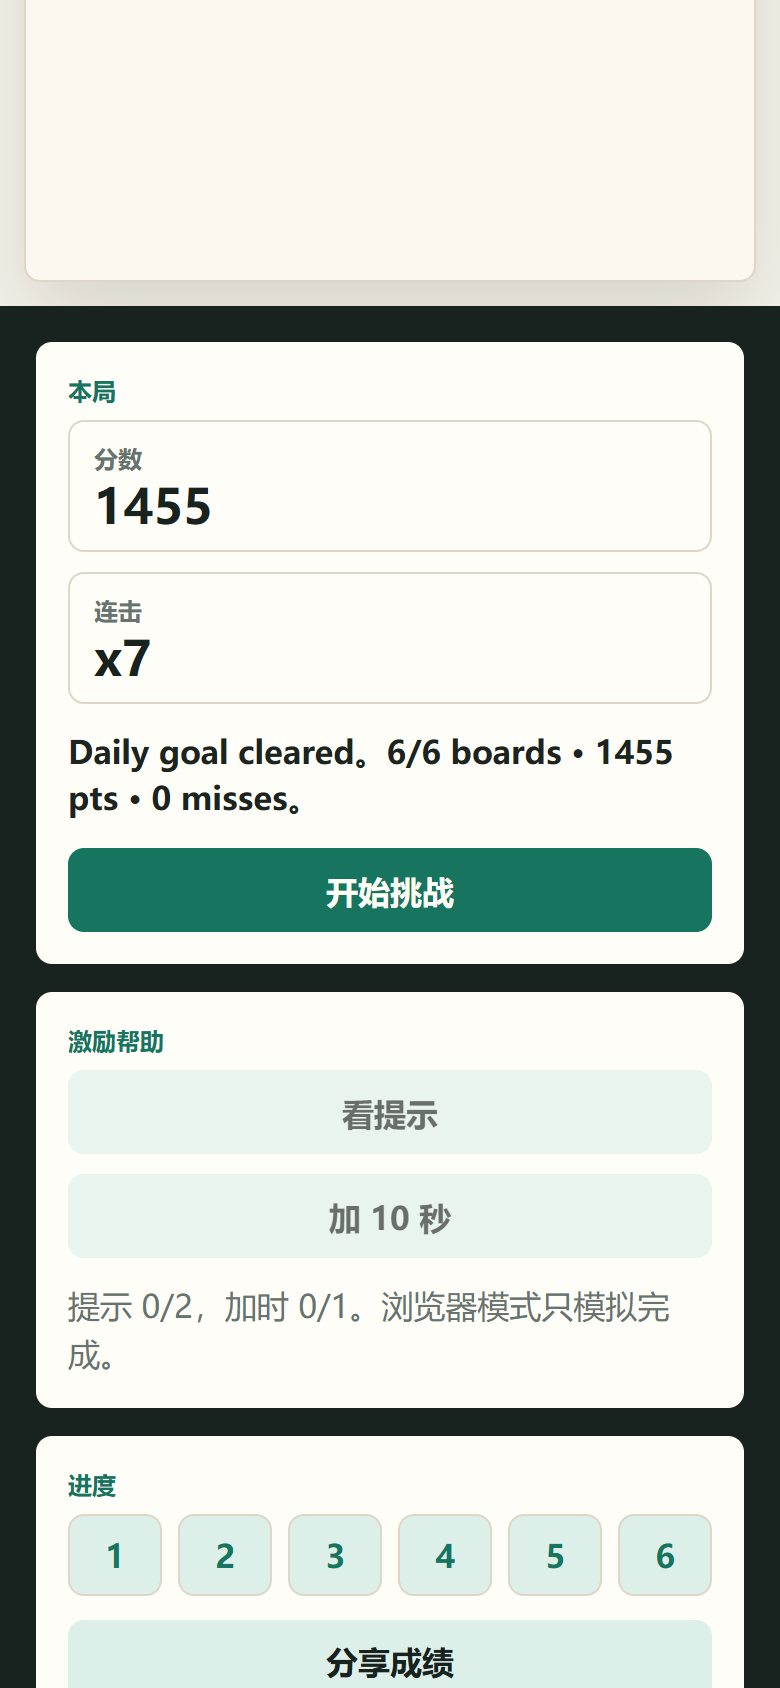
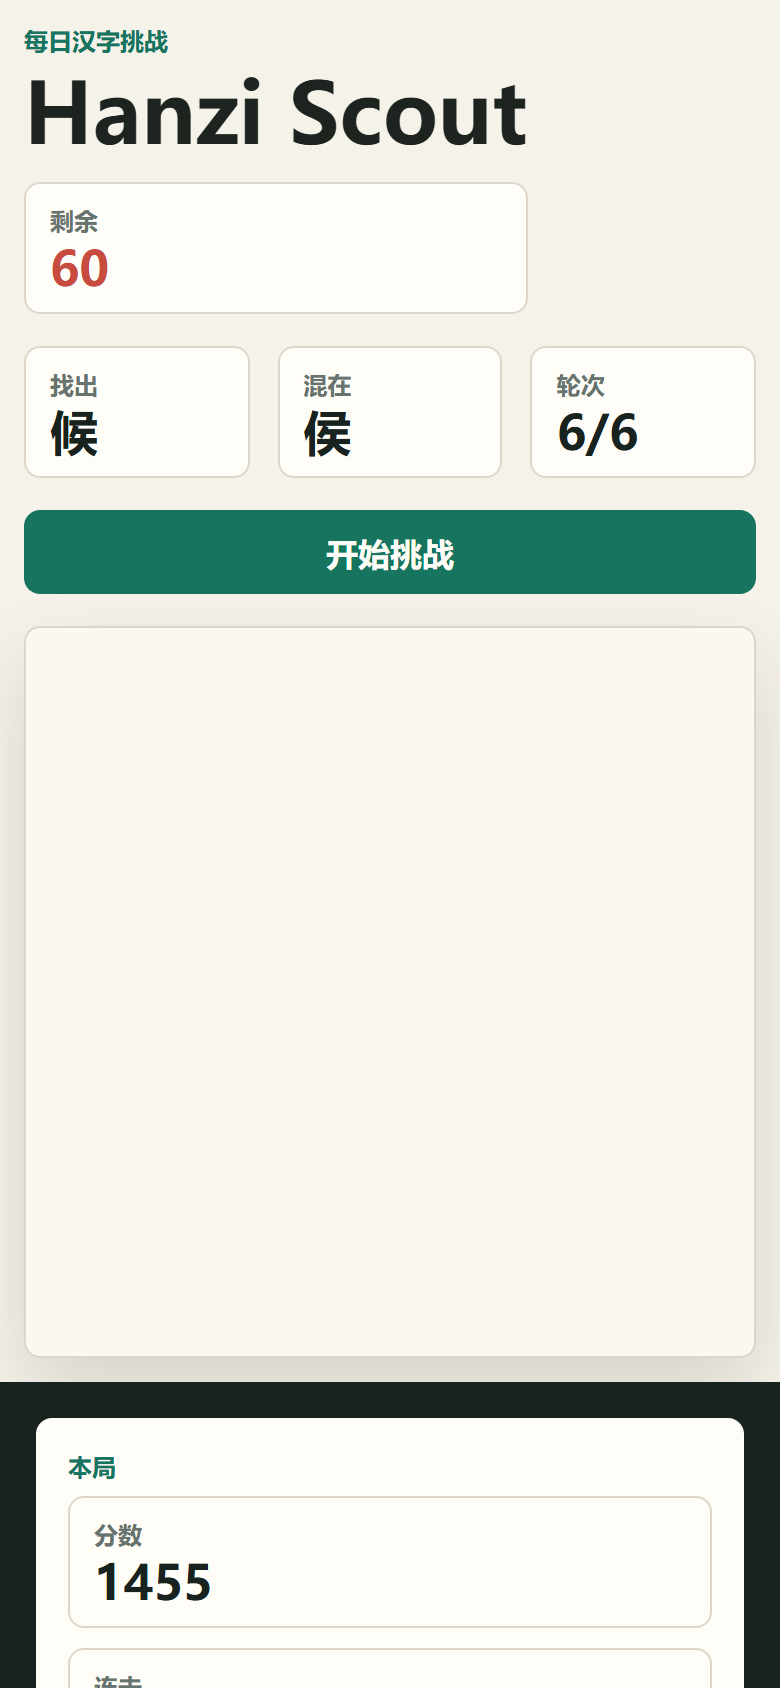
Add rewarded revive loop

diff --git a/src/main.js b/src/main.js
@@ -1,4 +1,4 @@
-import { canUseReward, createGameState, createProgress, createRunSummary, createShareText, finishRun, getCurrentRound, getRemainingSeconds, grantExtraTime, grantHint, startRun, tapCell } from "./game.js";
+import { canOfferRevive, canUseReward, createGameState, createProgress, createRunSummary, createShareText, finishRun, getCurrentRound, getRemainingSeconds, grantExtraTime, grantHint, grantRevive, pauseForRevive, startRun, tapCell } from "./game.js";
 import { getDayKey } from "./levels.js";
 import { createFriendLeaderboard, createScoreCard, loadProfile, recordRun, saveProfile } from "./profile.js";
 import { createPlatformAdapter } from "./wechat-adapter.js";
@@ -13,8 +13,10 @@ const refs = {
   combo: document.querySelector("#combo-value"),
   status: document.querySelector("#status-line"),
   start: document.querySelector("#start-button"),
+  quickStart: document.querySelector("#quick-start-button"),
   hint: document.querySelector("#hint-button"),
   timeButton: document.querySelector("#time-button"),
+  revive: document.querySelector("#revive-button"),
   assist: document.querySelector("#assist-line"),
   share: document.querySelector("#share-button"),
   shareText: document.querySelector("#share-text"),
@@ -38,24 +40,24 @@ refs.goal.textContent = formatGoal();
 refs.profile.textContent = formatProfile();
 render();
 
-refs.start.addEventListener("click", () => {
+refs.start.addEventListener("click", beginOrRecordRun);
+refs.quickStart.addEventListener("click", beginOrRecordRun);
+
+function beginOrRecordRun() {
+  if (state.awaitingRevive) {
+    finishRun(state, "timeout");
+    stopTimer();
+    refs.status.textContent = "本局已记录。";
+    render();
+    return;
+  }
   startRun(state);
   recordedRunKey = null;
   interstitialRunKey = null;
   refs.status.textContent = "在倒计时结束前找出不同的汉字。";
-  if (timer) window.clearInterval(timer);
-  timer = window.setInterval(() => {
-    if (getRemainingSeconds(state) <= 0 && !state.complete) {
-      finishRun(state, "timeout");
-    }
-    if (state.complete) {
-      window.clearInterval(timer);
-      timer = null;
-    }
-    render();
-  }, 250);
+  startTimer();
   render();
-});
+}
 
 refs.hint.addEventListener("click", async () => {
   if (!canUseReward(state, "hint")) {
@@ -95,6 +97,26 @@ refs.timeButton.addEventListener("click", async () => {
   render();
 });
 
+refs.revive.addEventListener("click", async () => {
+  if (!canOfferRevive(state)) {
+    refs.status.textContent = "当前还不能复活。";
+    render();
+    return;
+  }
+  refs.revive.disabled = true;
+  refs.status.textContent = "正在打开复活奖励...";
+  const reward = await platform.showRewarded("revive");
+  if (reward.ok) {
+    grantRevive(state, 15);
+    refs.status.textContent = "已复活 15 秒，继续找字。";
+    startTimer();
+  } else {
+    refs.status.textContent = "复活奖励没有完成。";
+  }
+  refs.revive.disabled = false;
+  render();
+});
+
 refs.share.addEventListener("click", async () => {
   const text = createShareText(state);
   refs.shareText.value = text;
@@ -118,8 +140,12 @@ function render() {
   refs.profile.textContent = formatProfile();
   refs.assist.textContent = formatAssist();
   renderLeaderboard(createRunSummary(state));
-  refs.hint.disabled = !state.startedAt || state.complete || !canUseReward(state, "hint");
-  refs.timeButton.disabled = !state.startedAt || state.complete || !canUseReward(state, "extraTime");
+  refs.hint.disabled = !state.startedAt || state.complete || state.awaitingRevive || !canUseReward(state, "hint");
+  refs.timeButton.disabled = !state.startedAt || state.complete || state.awaitingRevive || !canUseReward(state, "extraTime");
+  refs.revive.disabled = !canOfferRevive(state);
+  const startText = state.awaitingRevive ? "结束并记录" : state.startedAt && !state.complete ? "重新开始" : "开始挑战";
+  refs.start.textContent = startText;
+  refs.quickStart.textContent = startText;
   renderProgress();
 
   if (state.complete || !round) {
@@ -143,7 +169,7 @@ function render() {
       button.className = `glyph-cell${state.hint && hintMatches(index, round) ? " hinted" : ""}`;
       button.textContent = cell.glyph;
       button.setAttribute("aria-label", `cell ${index + 1}`);
-      button.disabled = !state.startedAt;
+      button.disabled = !state.startedAt || state.awaitingRevive;
       button.addEventListener("click", () => {
         const result = tapCell(state, index);
         if (result.correct) {
@@ -183,6 +209,7 @@ function recordCompletion() {
 function showEndInterstitialOnce() {
   const key = `${state.startedAt || "preview"}:${state.run.dayKey}`;
   if (!state.startedAt || interstitialRunKey === key) return;
+  if (profile.plays <= 1) return;
   interstitialRunKey = key;
   platform.showInterstitial();
 }
@@ -193,7 +220,7 @@ function formatGoal() {
 }
 
 function formatAssist() {
-  return `提示 ${state.rewardUses.hint}/2，加时 ${state.rewardUses.extraTime}/1。浏览器模式只模拟完成。`;
+  return `提示 ${state.rewardUses.hint}/2，加时 ${state.rewardUses.extraTime}/1，复活 ${state.rewardUses.revive}/1。浏览器模式只模拟完成。`;
 }
 
 function formatProfile() {
@@ -229,4 +256,28 @@ function renderProgress() {
       return li;
     }),
   );
+}
+
+function startTimer() {
+  stopTimer();
+  timer = window.setInterval(() => {
+    if (getRemainingSeconds(state) <= 0 && !state.complete) {
+      if (pauseForRevive(state)) {
+        refs.status.textContent = "时间到了，可以复活 15 秒，或结束并记录本局。";
+        stopTimer();
+      } else {
+        finishRun(state, "timeout");
+      }
+    }
+    if (state.complete) {
+      stopTimer();
+    }
+    render();
+  }, 250);
+}
+
+function stopTimer() {
+  if (!timer) return;
+  window.clearInterval(timer);
+  timer = null;
 }

diff --git a/src/game.js b/src/game.js
@@ -16,8 +16,10 @@ export function createGameState({ now = () => Date.now(), dayKey, rounds = 6 } =
     rewardUses: {
       hint: 0,
       extraTime: 0,
+      revive: 0,
     },
     finishedReason: null,
+    awaitingRevive: false,
     complete: false,
   };
 }
@@ -35,8 +37,10 @@ export function startRun(state) {
   state.rewardUses = {
     hint: 0,
     extraTime: 0,
+    revive: 0,
   };
   state.finishedReason = null;
+  state.awaitingRevive = false;
   state.complete = false;
   return state;
 }
@@ -87,7 +91,7 @@ export function tapCell(state, cellIndex) {
 
 export function grantHint(state) {
   const round = getCurrentRound(state);
-  if (!round || state.complete || !canUseReward(state, "hint")) {
+  if (!round || state.complete || state.awaitingRevive || !canUseReward(state, "hint")) {
     return null;
   }
   state.rewardUses.hint += 1;
@@ -99,7 +103,7 @@ export function grantHint(state) {
 }
 
 export function grantExtraTime(state, seconds = 10) {
-  if (!state.startedAt || state.complete || !canUseReward(state, "extraTime")) {
+  if (!state.startedAt || state.complete || state.awaitingRevive || !canUseReward(state, "extraTime")) {
     return 0;
   }
   state.rewardUses.extraTime += 1;
@@ -107,10 +111,45 @@ export function grantExtraTime(state, seconds = 10) {
   return getRemainingSeconds(state);
 }
 
+export function canOfferRevive(state) {
+  return Boolean(
+    state.startedAt &&
+      state.awaitingRevive &&
+      !state.complete &&
+      state.currentRound < state.run.rounds.length &&
+      canUseReward(state, "revive"),
+  );
+}
+
+export function pauseForRevive(state) {
+  if (!state.startedAt || state.complete || state.currentRound >= state.run.rounds.length) {
+    return false;
+  }
+  if (!canUseReward(state, "revive")) {
+    finishRun(state, "timeout");
+    return false;
+  }
+  state.awaitingRevive = true;
+  state.endsAt = state.now();
+  return true;
+}
+
+export function grantRevive(state, seconds = 15) {
+  if (!canOfferRevive(state)) {
+    return 0;
+  }
+  state.rewardUses.revive += 1;
+  state.awaitingRevive = false;
+  state.finishedReason = null;
+  state.endsAt = state.now() + seconds * 1000;
+  return getRemainingSeconds(state);
+}
+
 export function canUseReward(state, reason) {
   const limits = {
     hint: 2,
     extraTime: 1,
+    revive: 1,
   };
   return (state.rewardUses?.[reason] || 0) < (limits[reason] || 0);
 }
@@ -119,6 +158,7 @@ export function finishRun(state, reason = "ended") {
   if (state.complete) {
     return state;
   }
+  state.awaitingRevive = false;
   state.complete = true;
   state.finishedReason = reason;
   return state;

diff --git a/src/styles.css b/src/styles.css
@@ -51,6 +51,12 @@ button.wide {
   margin-top: 12px;
 }
 
+.quick-start {
+  display: none;
+  width: 100%;
+  max-width: min(86vh, 720px);
+}
+
 button:disabled {
   cursor: wait;
   opacity: 0.65;
@@ -312,6 +318,10 @@ textarea {
     display: grid;
   }
 
+  .quick-start {
+    display: block;
+  }
+
   .mission-strip {
     display: grid;
     grid-template-columns: repeat(3, minmax(0, 1fr));
@@ -327,7 +337,6 @@ textarea {
     padding: 12px;
   }
 
-  .mission-strip,
   .score-row,
   .button-grid {
     grid-template-columns: 1fr;

diff --git a/index.html b/index.html
@@ -35,6 +35,7 @@
           </div>
         </section>
 
+        <button id="quick-start-button" class="quick-start" type="button">开始挑战</button>
         <div id="grid" class="glyph-grid" aria-label="Tap the different glyph"></div>
       </section>
 
@@ -60,8 +61,9 @@
           <div class="button-grid">
             <button id="hint-button" class="secondary" type="button">看提示</button>
             <button id="time-button" class="secondary" type="button">加 10 秒</button>
+            <button id="revive-button" class="secondary" type="button">复活 15 秒</button>
           </div>
-          <p id="assist-line" class="microcopy">每局最多 2 次提示、1 次加时。浏览器模式只模拟完成。</p>
+          <p id="assist-line" class="microcopy">每局最多 2 次提示、1 次加时、1 次超时复活。浏览器模式只模拟完成。</p>
         </section>
 
         <section class="panel">

diff --git a/src/profile.js b/src/profile.js
@@ -13,6 +13,7 @@ export function createEmptyProfile() {
     rewardViews: {
       hint: 0,
       extraTime: 0,
+      revive: 0,
     },
     history: [],
   };
@@ -60,6 +61,7 @@ export function recordRun(profile, summary) {
   if (summary.cleared) next.completions += 1;
   next.rewardViews.hint += summary.rewardUses?.hint || 0;
   next.rewardViews.extraTime += summary.rewardUses?.extraTime || 0;
+  next.rewardViews.revive += summary.rewardUses?.revive || 0;
 
   if (summary.score > next.bestScore) {
     next.bestScore = summary.score;

diff --git a/docs/wechat-port-plan.md b/docs/wechat-port-plan.md
@@ -11,14 +11,14 @@ Hanzi Scout 第一版只做短局玩法，不做复杂养成：
 - 本地记录用于最佳成绩、连续天数、近 14 天历史。
 - 分享文案用于微信好友/群传播。
 - 离线模拟好友榜先验证“排名压力 -> 分享 -> 再来一局”的循环；正式微信版本再决定是否接开放数据域。
-- 激励帮助只放在玩家主动触发的位置：提示和加时。
+- 激励帮助只放在玩家主动触发的位置：提示、加时和超时复活。
 
 ## 平台调用边界
 
 当前浏览器原型的微信边界是 `src/wechat-adapter.js`：
 
-- `wx.createRewardedVideoAd`：提示、加时。
-- `wx.createInterstitialAd`：完成一局后展示，不在开局前强插。
+- `wx.createRewardedVideoAd`：提示、加时、超时复活。
+- `wx.createInterstitialAd`：从第二局开始完成后展示，不在开局前或首局结束时强插。
 - `wx.shareAppMessage`：分享成绩。
 - `wx.getStorageSync` / `wx.setStorageSync`：保存本地记录。
 
@@ -31,8 +31,8 @@ Hanzi Scout 第一版只做短局玩法，不做复杂养成：
 3. 迁移 `src/game.js`、`src/levels.js`、`src/profile.js` 的纯逻辑。
 4. 用小游戏渲染层替换 DOM 页面。
 5. 替换广告单元 id。
-6. 验证激励视频关闭行为：只有完整观看才发放提示或加时。
-7. 保持第一版广告克制：只保留提示和加时，不做开屏式强打断。
+6. 验证激励视频关闭行为：只有完整观看才发放提示、加时或复活。
+7. 保持第一版广告克制：只保留提示、加时、复活和第二局后的结束间隙，不做开屏式强打断。
 8. 准备隐私、类目、内容审核材料。
 
 ## 暂不做的内容